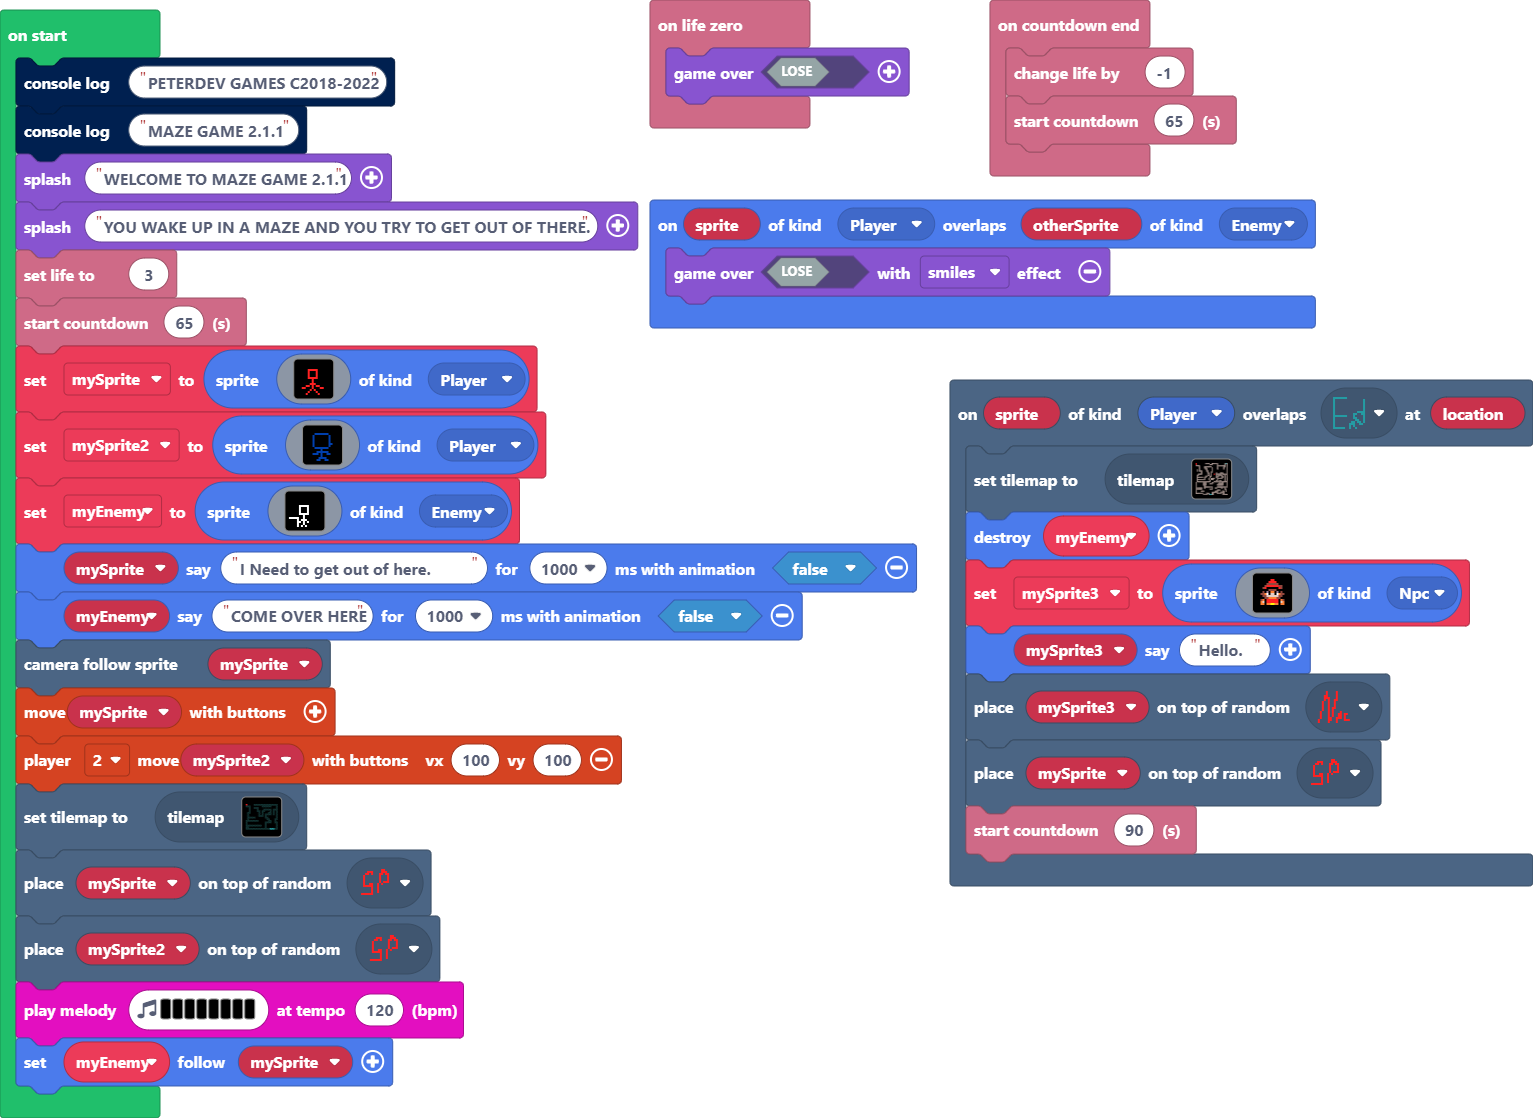
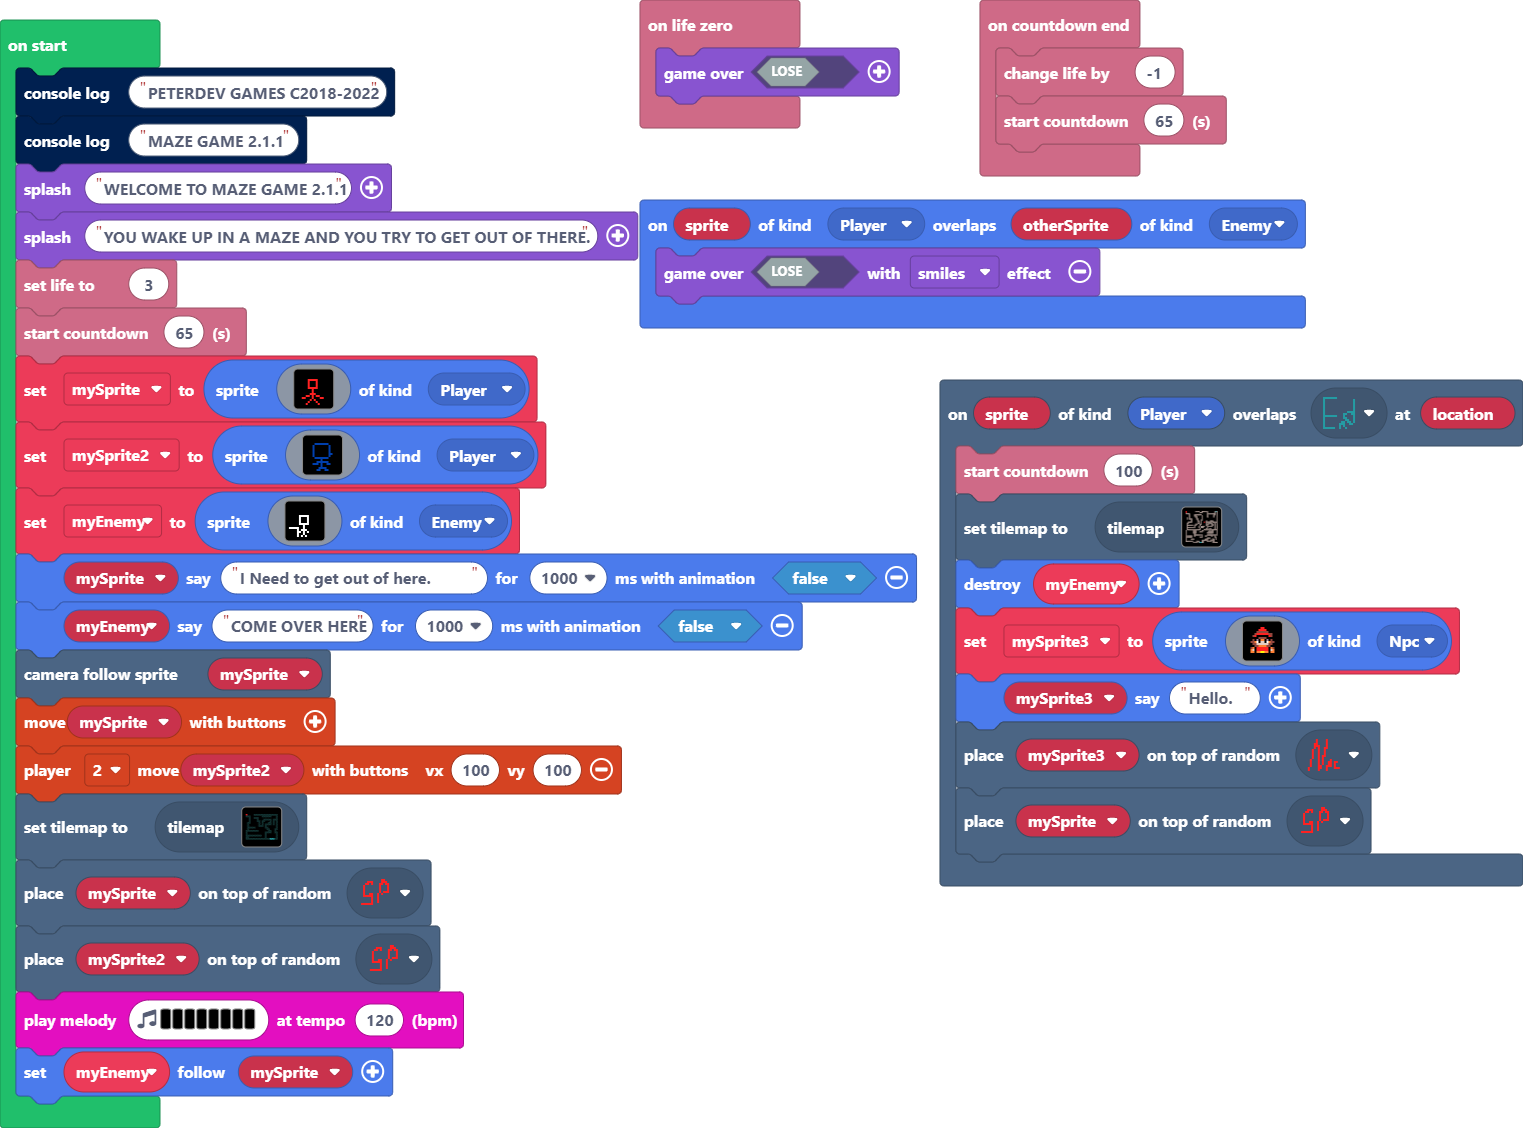
Update main.blocks, main.ts

Changed region(s): [[0.0, 0.0, 1.0, 0.9732], [0.4012, 0.0, 0.6172, 0.1216]]

diff --git a/main.ts b/main.ts
@@ -6,6 +6,7 @@ info.onCountdownEnd(function () {
     info.startCountdown(65)
 })
 scene.onOverlapTile(SpriteKind.Player, assets.tile`myTile2`, function (sprite, location) {
+    info.startCountdown(100)
     tiles.setCurrentTilemap(tilemap`level2`)
     myEnemy.destroy()
     mySprite3 = sprites.create(assets.image`npc`, SpriteKind.Npc)
